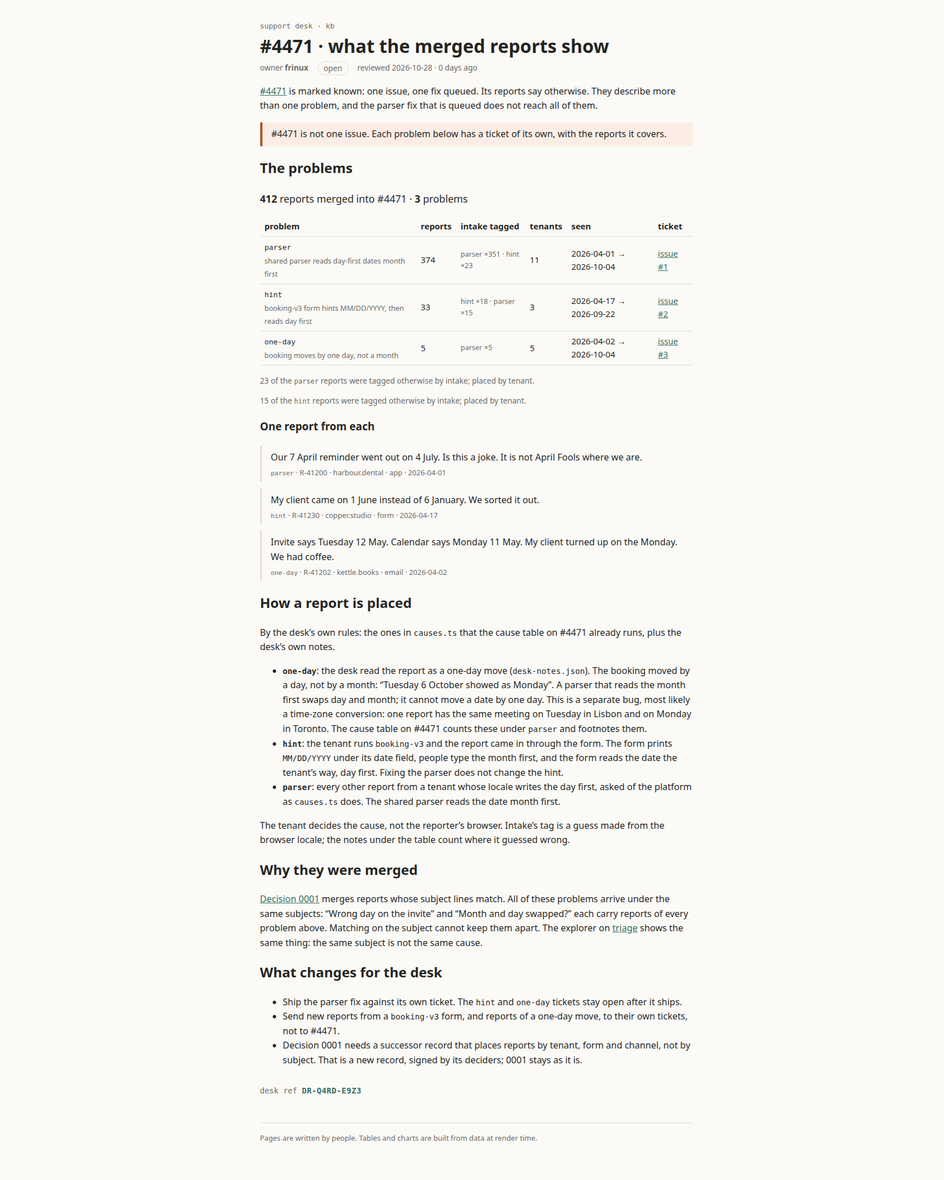
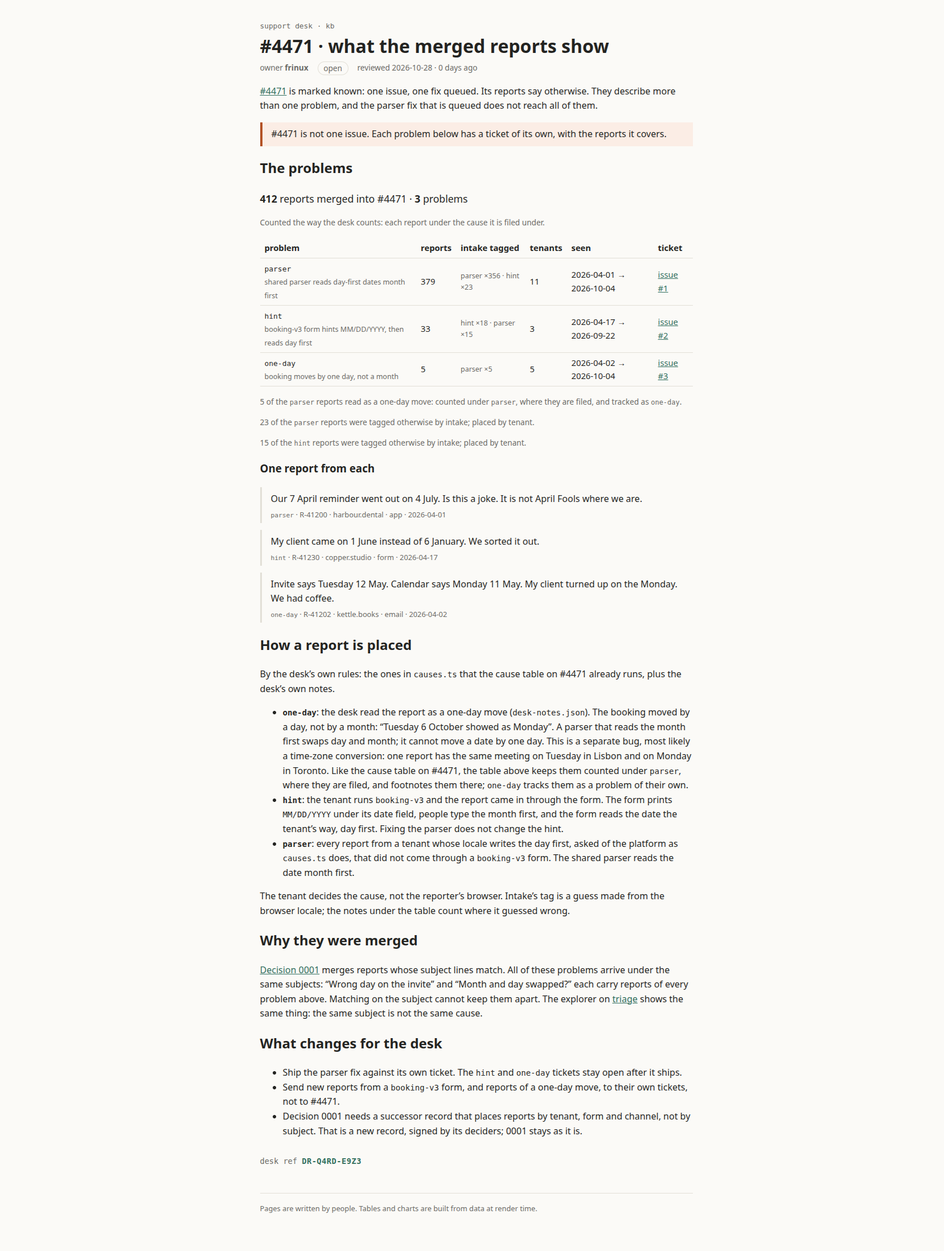
Count problems the way the desk counts: parser 379
The desk's cause table keeps reports read as a one-day move counted
under the cause they are filed under, with a footnote. The page now
counts with the desk's own groupByCause, so parser shows 379 with the
5 one-day moves footnoted, matching issue #1.

diff --git a/rendered/site/kb/incidents/4471/problems/index.html b/rendered/site/kb/incidents/4471/problems/index.html
@@ -9,11 +9,11 @@
 		<link href="../../../../_app/immutable/chunks/B2Ul7l_u.js" rel="modulepreload">
 		<link href="../../../../_app/immutable/chunks/BCPXOG7W.js" rel="modulepreload">
 		<link href="../../../../_app/immutable/chunks/Dh1V97Jm.js" rel="modulepreload">
-		<link href="../../../../_app/immutable/entry/app.BV1tQhXl.js" rel="modulepreload">
+		<link href="../../../../_app/immutable/entry/app.DoR5abNW.js" rel="modulepreload">
 		<link href="../../../../_app/immutable/nodes/0.BurGglGN.js" rel="modulepreload">
 		<link href="../../../../_app/immutable/chunks/DK3Fl9T5.js" rel="modulepreload">
-		<link href="../../../../_app/immutable/nodes/5.Ci9xwt0D.js" rel="modulepreload">
-		<link href="../../../../_app/immutable/chunks/DEWWjFDO.js" rel="modulepreload">
+		<link href="../../../../_app/immutable/nodes/5.U8cSWxVx.js" rel="modulepreload">
+		<link href="../../../../_app/immutable/chunks/Byargq5p.js" rel="modulepreload">
 		<link href="../../../../_app/immutable/chunks/BTPwLomz.js" rel="modulepreload">
 		<link href="../../../../_app/immutable/chunks/CVBzP17p.js" rel="modulepreload">
 		<link href="../../../../_app/immutable/chunks/BIy4WKJS.js" rel="modulepreload">
@@ -25,16 +25,18 @@
   <body data-sveltekit-preload-data="hover">
     <div style="display: contents"><!--[--><!--[--><!--[0--><!--[--><!--[--><!--[-1--><!--[--><div class="kb svelte-e2jw2j"><header><a class="crumb svelte-e2jw2j" href="/kb">support desk · kb</a> <h1 class="svelte-e2jw2j">#4471 · what the merged reports show</h1> <p class="meta svelte-e2jw2j"><span>owner <b>frinux</b></span> <span class="status open svelte-e2jw2j">open</span> <span class="svelte-e2jw2j">reviewed 2026-10-28 · 0 days ago</span></p></header> <!--[-1--><!--]--> <main><p><a href="/kb/incidents/4471">#4471</a> is marked known: one issue, one fix queued. Its reports say
 otherwise. They describe more than one problem, and the parser fix that is queued does not
-reach all of them.</p> <aside class="warn svelte-17bri61"><!---->#4471 is not one issue. Each problem below has a ticket of its own, with the reports it covers.<!----></aside><!----> <h2>The problems</h2> <p class="sum svelte-1op6c6"><strong>412</strong> reports merged into #4471 · <strong>3</strong> problems</p> <table><thead><tr><th>problem</th><th>reports</th><th>intake tagged</th><th>tenants</th><th>seen</th><th>ticket</th></tr></thead><tbody><!--[--><tr class="svelte-1op6c6"><td class="svelte-1op6c6"><code>parser</code><br/><span class="label svelte-1op6c6">shared parser reads day-first dates month first</span></td><td class="svelte-1op6c6">374</td><td class="tags svelte-1op6c6">parser ×351 · hint ×23</td><td class="svelte-1op6c6">11</td><td class="svelte-1op6c6">2026-04-01 → 2026-10-04</td><td class="svelte-1op6c6"><!--[0--><a href="https://github.com/frinux/mega-s01e03-support-kb/issues/1">issue #1</a><!--]--></td></tr><tr class="svelte-1op6c6"><td class="svelte-1op6c6"><code>hint</code><br/><span class="label svelte-1op6c6">booking-v3 form hints MM/DD/YYYY, then reads day first</span></td><td class="svelte-1op6c6">33</td><td class="tags svelte-1op6c6">hint ×18 · parser ×15</td><td class="svelte-1op6c6">3</td><td class="svelte-1op6c6">2026-04-17 → 2026-09-22</td><td class="svelte-1op6c6"><!--[0--><a href="https://github.com/frinux/mega-s01e03-support-kb/issues/2">issue #2</a><!--]--></td></tr><tr class="svelte-1op6c6"><td class="svelte-1op6c6"><code>one-day</code><br/><span class="label svelte-1op6c6">booking moves by one day, not a month</span></td><td class="svelte-1op6c6">5</td><td class="tags svelte-1op6c6">parser ×5</td><td class="svelte-1op6c6">5</td><td class="svelte-1op6c6">2026-04-02 → 2026-10-04</td><td class="svelte-1op6c6"><!--[0--><a href="https://github.com/frinux/mega-s01e03-support-kb/issues/3">issue #3</a><!--]--></td></tr><!--]--></tbody></table> <!--[--><!--[0--><p class="note svelte-1op6c6">23 of the <code>parser</code> reports were tagged otherwise by intake; placed by tenant.</p><!--]--><!--[0--><p class="note svelte-1op6c6">15 of the <code>hint</code> reports were tagged otherwise by intake; placed by tenant.</p><!--]--><!--[-1--><!--]--><!--]--> <h3>One report from each</h3> <!--[--><blockquote class="svelte-1op6c6"><p class="svelte-1op6c6">Our 7 April reminder went out on 4 July. Is this a joke. It is not April Fools where we are.</p> <footer class="svelte-1op6c6"><code>parser</code> · R-41200 · harbour.dental · app · 2026-04-01</footer></blockquote><blockquote class="svelte-1op6c6"><p class="svelte-1op6c6">My client came on 1 June instead of 6 January. We sorted it out.</p> <footer class="svelte-1op6c6"><code>hint</code> · R-41230 · copper.studio · form · 2026-04-17</footer></blockquote><blockquote class="svelte-1op6c6"><p class="svelte-1op6c6">Invite says Tuesday 12 May. Calendar says Monday 11 May. My client turned up on the Monday. We had coffee.</p> <footer class="svelte-1op6c6"><code>one-day</code> · R-41202 · kettle.books · email · 2026-04-02</footer></blockquote><!--]--><!----> <h2>How a report is placed</h2> <p>By the desk’s own rules: the ones in <code>causes.ts</code> that the cause table on #4471 already runs,
+reach all of them.</p> <aside class="warn svelte-17bri61"><!---->#4471 is not one issue. Each problem below has a ticket of its own, with the reports it covers.<!----></aside><!----> <h2>The problems</h2> <p class="sum svelte-1op6c6"><strong>412</strong> reports merged into #4471 · <strong>3</strong> problems</p> <p class="note svelte-1op6c6">Counted the way the desk counts: each report under the cause it is filed under.</p> <table><thead><tr><th>problem</th><th>reports</th><th>intake tagged</th><th>tenants</th><th>seen</th><th>ticket</th></tr></thead><tbody><!--[--><tr class="svelte-1op6c6"><td class="svelte-1op6c6"><code>parser</code><br/><span class="label svelte-1op6c6">shared parser reads day-first dates month first</span></td><td class="svelte-1op6c6">379</td><td class="tags svelte-1op6c6">parser ×356 · hint ×23</td><td class="svelte-1op6c6">11</td><td class="svelte-1op6c6">2026-04-01 → 2026-10-04</td><td class="svelte-1op6c6"><!--[0--><a href="https://github.com/frinux/mega-s01e03-support-kb/issues/1">issue #1</a><!--]--></td></tr><tr class="svelte-1op6c6"><td class="svelte-1op6c6"><code>hint</code><br/><span class="label svelte-1op6c6">booking-v3 form hints MM/DD/YYYY, then reads day first</span></td><td class="svelte-1op6c6">33</td><td class="tags svelte-1op6c6">hint ×18 · parser ×15</td><td class="svelte-1op6c6">3</td><td class="svelte-1op6c6">2026-04-17 → 2026-09-22</td><td class="svelte-1op6c6"><!--[0--><a href="https://github.com/frinux/mega-s01e03-support-kb/issues/2">issue #2</a><!--]--></td></tr><tr class="svelte-1op6c6"><td class="svelte-1op6c6"><code>one-day</code><br/><span class="label svelte-1op6c6">booking moves by one day, not a month</span></td><td class="svelte-1op6c6">5</td><td class="tags svelte-1op6c6">parser ×5</td><td class="svelte-1op6c6">5</td><td class="svelte-1op6c6">2026-04-02 → 2026-10-04</td><td class="svelte-1op6c6"><!--[0--><a href="https://github.com/frinux/mega-s01e03-support-kb/issues/3">issue #3</a><!--]--></td></tr><!--]--></tbody></table> <!--[--><!--[0--><p class="note svelte-1op6c6">5 of the <code>parser</code> reports read as a one-day move: counted under <code>parser</code>, where they are filed, and tracked as <code>one-day</code>.</p><!--]--><!--[-1--><!--]--><!--]--> <!--[--><!--[0--><p class="note svelte-1op6c6">23 of the <code>parser</code> reports were tagged otherwise by intake; placed by tenant.</p><!--]--><!--[0--><p class="note svelte-1op6c6">15 of the <code>hint</code> reports were tagged otherwise by intake; placed by tenant.</p><!--]--><!--[-1--><!--]--><!--]--> <h3>One report from each</h3> <!--[--><blockquote class="svelte-1op6c6"><p class="svelte-1op6c6">Our 7 April reminder went out on 4 July. Is this a joke. It is not April Fools where we are.</p> <footer class="svelte-1op6c6"><code>parser</code> · R-41200 · harbour.dental · app · 2026-04-01</footer></blockquote><blockquote class="svelte-1op6c6"><p class="svelte-1op6c6">My client came on 1 June instead of 6 January. We sorted it out.</p> <footer class="svelte-1op6c6"><code>hint</code> · R-41230 · copper.studio · form · 2026-04-17</footer></blockquote><blockquote class="svelte-1op6c6"><p class="svelte-1op6c6">Invite says Tuesday 12 May. Calendar says Monday 11 May. My client turned up on the Monday. We had coffee.</p> <footer class="svelte-1op6c6"><code>one-day</code> · R-41202 · kettle.books · email · 2026-04-02</footer></blockquote><!--]--><!----> <h2>How a report is placed</h2> <p>By the desk’s own rules: the ones in <code>causes.ts</code> that the cause table on #4471 already runs,
 plus the desk’s own notes.</p> <ul><li><strong><code>one-day</code></strong>: the desk read the report as a one-day move (<code>desk-notes.json</code>). The booking
 moved by a day, not by a month: “Tuesday 6 October showed as Monday”. A parser that reads
 the month first swaps day and month; it cannot move a date by one day. This is a separate
 bug, most likely a time-zone conversion: one report has the same meeting on Tuesday in
-Lisbon and on Monday in Toronto. The cause table on #4471 counts these under <code>parser</code> and
-footnotes them.</li> <li><strong><code>hint</code></strong>: the tenant runs <code>booking-v3</code> and the report came in through the form. The form
+Lisbon and on Monday in Toronto. Like the cause table on #4471, the table above keeps them
+counted under <code>parser</code>, where they are filed, and footnotes them there; <code>one-day</code> tracks them
+as a problem of their own.</li> <li><strong><code>hint</code></strong>: the tenant runs <code>booking-v3</code> and the report came in through the form. The form
 prints <code>MM/DD/YYYY</code> under its date field, people type the month first, and the form reads
-the date the tenant’s way, day first. Fixing the parser does not change the hint.</li> <li><strong><code>parser</code></strong>: every other report from a tenant whose locale writes the day first, asked of
-the platform as <code>causes.ts</code> does. The shared parser reads the date month first.</li></ul> <p>The tenant decides the cause, not the reporter’s browser. Intake’s tag is a guess made from
+the date the tenant’s way, day first. Fixing the parser does not change the hint.</li> <li><strong><code>parser</code></strong>: every report from a tenant whose locale writes the day first, asked of the
+platform as <code>causes.ts</code> does, that did not come through a <code>booking-v3</code> form. The shared
+parser reads the date month first.</li></ul> <p>The tenant decides the cause, not the reporter’s browser. Intake’s tag is a guess made from
 the browser locale; the notes under the table count where it guessed wrong.</p> <h2>Why they were merged</h2> <p><a href="/kb/decisions/0001-dedupe-by-subject">Decision 0001</a> merges reports whose subject lines
 match. All of these problems arrive under the same subjects: “Wrong day on the invite” and
 “Month and day swapped?” each carry reports of every problem above. Matching on the subject
@@ -46,16 +48,16 @@ not by subject. That is a new record, signed by its deciders; 0001 stays as it i
 			
 			<script>
 				{
-					__sveltekit_7aoigv = {
+					__sveltekit_1ldgquo = {
 						base: new URL("../../../..", location).pathname.slice(0, -1),
-						version: "1793209342383"
+						version: "1793209496119"
 					};
 
 					const element = document.currentScript.parentElement;
 
 					import("../../../../_app/immutable/entry/start.CH5w6lId.js").then(async (kit) => {
-						kit.init(__sveltekit_7aoigv);
-						const app = await import("../../../../_app/immutable/entry/app.BV1tQhXl.js");
+						kit.init(__sveltekit_1ldgquo);
+						const app = await import("../../../../_app/immutable/entry/app.DoR5abNW.js");
 						kit.start(app, element, {
 							node_ids: [0, 5],
 							data: [null,null],

diff --git a/rendered/site/_app/immutable/chunks/Byargq5p.js b/rendered/site/_app/immutable/chunks/Byargq5p.js
@@ -1,0 +1,22 @@
+import{t as e}from"./DK3Fl9T5.js";import{E as t,F as n,H as r,I as i,K as a,L as o,N as s,O as c,R as l,S as u,T as d,U as f,W as p,_ as m,c as h,d as g,h as _,k as v,q as y,r as b,t as x,w as S}from"./BCPXOG7W.js";import{t as C}from"./BTPwLomz.js";import{n as w,t as T}from"./CVBzP17p.js";import{a as E,l as D,r as O,t as k}from"./BIy4WKJS.js";var A={parser:{label:`shared parser reads day-first dates month first`,issue:`https://github.com/frinux/mega-s01e03-support-kb/issues/1`},hint:{label:`booking-v3 form hints MM/DD/YYYY, then reads day first`,issue:`https://github.com/frinux/mega-s01e03-support-kb/issues/2`},"one-day":{label:`booking moves by one day, not a month`,issue:`https://github.com/frinux/mega-s01e03-support-kb/issues/3`}};function j(e,t){let n=t.map(e=>e.receivedAt.slice(0,10)).sort();return{problem:e,reports:t,tenants:new Set(t.map(e=>e.tenant)).size,firstSeen:n[0],lastSeen:n[n.length-1],taggedAs:t.reduce((e,t)=>({...e,[t.meta.intakeTag]:(e[t.meta.intakeTag]??0)+1}),{})}}function M(e,t,n){let r=E(e,t).map(e=>j(e.cause,e.reports)),i=e.filter(e=>n.includes(e.id));return i.length?[...r,j(`one-day`,i)]:r}function N(e){return e.problem===`parser`||e.problem===`hint`?e.reports.filter(t=>t.meta.intakeTag!==e.problem).length:0}var P=t(`<a> </a>`),F=t(`<tr><td class="svelte-1op6c6"><code> </code><br/><span class="label svelte-1op6c6"> </span></td><td class="svelte-1op6c6"> </td><td class="tags svelte-1op6c6"> </td><td class="svelte-1op6c6"> </td><td class="svelte-1op6c6"> </td><td class="svelte-1op6c6"><!></td></tr>`),I=t(`<p class="note svelte-1op6c6"> <code> </code> reports read as a one-day move: counted under <code> </code>, where they are filed, and tracked as <code>one-day</code>.</p>`),L=t(`<p class="note svelte-1op6c6"> <code> </code> reports were tagged otherwise by intake; placed by tenant.</p>`),R=t(`<blockquote class="svelte-1op6c6"><p class="svelte-1op6c6"> </p> <footer class="svelte-1op6c6"><code> </code> </footer></blockquote>`),z=t(`<p class="sum svelte-1op6c6"><strong> </strong> <strong> </strong> </p> <p class="note svelte-1op6c6">Counted the way the desk counts: each report under the cause it is filed under.</p> <table><thead><tr><th>problem</th><th>reports</th><th>intake tagged</th><th>tenants</th><th>seen</th><th>ticket</th></tr></thead><tbody></tbody></table> <!> <!> <h3>One report from each</h3> <!>`,1);function B(e,t){p(t,!0);let b=A,x=r(()=>D(w).filter(e=>e.mergedInto===t.ticket)),C=r(()=>M(v(x),O,T.oneDayMove)),E=r(()=>v(C).filter(e=>e.problem!==`one-day`)),k=e=>Object.entries(e.taggedAs).sort((e,t)=>t[1]-e[1]).map(([e,t])=>`${e} ×${t}`).join(` · `),j=e=>e.split(`/`).pop();var B=z(),V=i(B),H=n(V),U=o(H,!0),W=l(H),G=l(W),K=o(G,!0),q=l(G);y(V);var J=l(V,4),Y=l(n(J));_(Y,21,()=>v(C),e=>e.problem,(e,t)=>{var r=F();let i;var a=n(r),d=n(a),f=o(d,!0),p=l(d,2),_=o(p,!0);y(a);var x=l(a),C=o(x,!0),w=l(x),T=o(w,!0),E=l(w),D=o(E,!0),O=l(E),A=o(O),M=l(O),N=n(M),I=e=>{var n=P(),r=o(n);s(e=>{h(n,`href`,b[v(t).problem].issue),u(r,`issue #${e??``}`)},[()=>j(b[v(t).problem].issue)]),S(e,n)},L=e=>{var t=c(`not filed`);S(e,t)};m(N,e=>{b[v(t).problem]?.issue?e(I):e(L,-1)}),y(M),y(r),s(e=>{i=g(r,1,`svelte-1op6c6`,null,i,{open:!b[v(t).problem]?.issue}),u(f,v(t).problem),u(_,b[v(t).problem]?.label??`no tenant on file`),u(C,v(t).reports.length),u(T,e),u(D,v(t).tenants),u(A,`${v(t).firstSeen??``} → ${v(t).lastSeen??``}`)},[()=>k(v(t))]),S(e,r)}),y(Y),y(J);var X=l(J,2);_(X,17,()=>v(E),e=>e.problem,(e,t)=>{let c=r(()=>v(t).reports.filter(e=>T.oneDayMove.includes(e.id)).length);var f=d(),p=i(f),h=e=>{var r=I(),i=n(r),d=l(i),f=o(d,!0),p=l(d,2),m=o(p,!0);a(3),y(r),s(()=>{u(i,`${v(c)??``} of the `),u(f,v(t).problem),u(m,v(t).problem)}),S(e,r)};m(p,e=>{v(c)&&e(h)}),S(e,f)});var Z=l(X,2);_(Z,17,()=>v(C),e=>e.problem,(e,t)=>{let c=r(()=>N(v(t)));var f=d(),p=i(f),h=e=>{var r=L(),i=n(r),d=l(i),f=o(d,!0);a(),y(r),s(()=>{u(i,`${v(c)??``} of the `),u(f,v(t).problem)}),S(e,r)};m(p,e=>{v(c)&&e(h)}),S(e,f)});var Q=l(Z,4);_(Q,17,()=>v(C),e=>e.problem,(e,t)=>{let i=r(()=>v(t).reports[0]);var a=R(),c=n(a),d=o(c,!0),f=l(c,2),p=n(f),m=o(p,!0),h=l(p);y(f),y(a),s(e=>{u(d,v(i).body),u(m,v(t).problem),u(h,` · ${v(i).id??``} · ${v(i).tenant??``} · ${v(i).channel??``} · ${e??``}`)},[()=>v(i).receivedAt.slice(0,10)]),S(e,a)}),s(()=>{u(U,v(x).length),u(W,` reports merged into #${t.ticket??``} · `),u(K,v(C).length),u(q,` ${v(C).length===1?`problem`:`problems`}`)}),S(e,B),f()}var V=`0123456789ABCDEFGHJKMNPQRSTVWXYZ`;function H(e,t){let n=t>>>0;for(let t=0;t<e.length;t++)n^=e.charCodeAt(t),n=Math.imul(n,16777619)>>>0;return n}function U(e){let t=e.trim(),n=H(t,2166136261),r=H(t,2654435769),i=BigInt(n)<<8n|BigInt(r&255),a=``;for(let e=0;e<8;e++)a=V[Number(i&31n)]+a,i>>=5n;return`DR-${a.slice(0,4)}-${a.slice(4)}`}var W=t(`<p class="stamp svelte-1280m42">desk ref <b class="svelte-1280m42"> </b></p>`),G=t(`<p class="stamp missing svelte-1280m42">no desk ref: this page isn't signed (no <code>signature</code> in its frontmatter)</p>`);function K(e,t){p(t,!0);let a=r(()=>t.signature?U(t.signature):null);var c=d(),h=i(c),g=e=>{var t=W(),r=l(n(t)),i=o(r,!0);y(t),s(()=>u(i,v(a))),S(e,t)},_=e=>{var t=G();S(e,t)};m(h,e=>{v(a)?e(g):e(_,-1)}),S(e,c),f()}var q=e({default:()=>$,metadata:()=>J}),J={layout:`runbook`,title:`#4471 · what the merged reports show`,owner:`frinux`,status:`open`,reviewed:`2026-10-28T00:00:00.000Z`,signature:`frinux`},{layout:Y,title:X,owner:Z,status:Q,reviewed:ee,signature:te}=J,ne=t(`<p><a href="/kb/incidents/4471">#4471</a> is marked known: one issue, one fix queued. Its reports say
+otherwise. They describe more than one problem, and the parser fix that is queued does not
+reach all of them.</p> <!> <h2>The problems</h2> <!> <h2>How a report is placed</h2> <p>By the desk’s own rules: the ones in <code>causes.ts</code> that the cause table on #4471 already runs,
+plus the desk’s own notes.</p> <ul><li><strong><code>one-day</code></strong>: the desk read the report as a one-day move (<code>desk-notes.json</code>). The booking
+moved by a day, not by a month: “Tuesday 6 October showed as Monday”. A parser that reads
+the month first swaps day and month; it cannot move a date by one day. This is a separate
+bug, most likely a time-zone conversion: one report has the same meeting on Tuesday in
+Lisbon and on Monday in Toronto. Like the cause table on #4471, the table above keeps them
+counted under <code>parser</code>, where they are filed, and footnotes them there; <code>one-day</code> tracks them
+as a problem of their own.</li> <li><strong><code>hint</code></strong>: the tenant runs <code>booking-v3</code> and the report came in through the form. The form
+prints <code>MM/DD/YYYY</code> under its date field, people type the month first, and the form reads
+the date the tenant’s way, day first. Fixing the parser does not change the hint.</li> <li><strong><code>parser</code></strong>: every report from a tenant whose locale writes the day first, asked of the
+platform as <code>causes.ts</code> does, that did not come through a <code>booking-v3</code> form. The shared
+parser reads the date month first.</li></ul> <p>The tenant decides the cause, not the reporter’s browser. Intake’s tag is a guess made from
+the browser locale; the notes under the table count where it guessed wrong.</p> <h2>Why they were merged</h2> <p><a href="/kb/decisions/0001-dedupe-by-subject">Decision 0001</a> merges reports whose subject lines
+match. All of these problems arrive under the same subjects: “Wrong day on the invite” and
+“Month and day swapped?” each carry reports of every problem above. Matching on the subject
+cannot keep them apart. The explorer on <a href="/kb/triage/dedupe">triage</a> shows the same thing:
+the same subject is not the same cause.</p> <h2>What changes for the desk</h2> <ul><li>Ship the parser fix against its own ticket. The <code>hint</code> and <code>one-day</code> tickets stay open
+after it ships.</li> <li>Send new reports from a <code>booking-v3</code> form, and reports of a one-day move, to their own
+tickets, not to #4471.</li> <li>Decision 0001 needs a successor record that places reports by tenant, form and channel,
+not by subject. That is a new record, signed by its deciders; 0001 stays as it is.</li></ul> <!>`,1);function $(e,t){let n=x(t,[`children`,`$$slots`,`$$events`,`$$legacy`]);C(e,b(()=>n,()=>J,{children:(e,t)=>{var n=ne(),r=l(i(n),2);k(r,{kind:`warn`,children:(e,t)=>{a();var n=c(`#4471 is not one issue. Each problem below has a ticket of its own, with the reports it covers.`);S(e,n)},$$slots:{default:!0}});var o=l(r,4);B(o,{ticket:4471}),K(l(o,18),{get signature(){return te}}),S(e,n)},$$slots:{default:!0}}))}export{$ as n,q as t};

diff --git a/src/lib/kb/problems.ts b/src/lib/kb/problems.ts
@@ -1,17 +1,12 @@
-// Splits a merged ticket into the problems its reports describe. Builds on causes.ts.
+// The problems in a merged ticket, counted the way the desk counts them: by cause (causes.ts), each
+// report where it is filed. Reports the desk read as a one-day move (desk-notes.json) are a problem
+// of their own, but they stay counted under the cause they are filed under, as CauseTable does.
+import { groupByCause, type CauseGroup, type Report, type Tenant } from '#lib/kb/causes';
 
-// A cause from causes.ts, or `one-day`: the desk read the report as a one-day move
-// (desk-notes.json), not a month flip, so the tenant's cause does not apply to it.
-import { causeOf, type Cause, type Report, type Tenant } from '#lib/kb/causes';
-
-export type Problem = Cause | 'one-day';
-
-export function problemOf(r: Report, t: Tenant | undefined, oneDayMove: readonly string[]): Problem | null {
-  return oneDayMove.includes(r.id) ? 'one-day' : causeOf(r, t);
-}
+export type Problem = CauseGroup['cause'] | 'one-day';
 
 export type ProblemGroup = {
-  problem: Problem | 'unplaced';
+  problem: Problem;
   reports: Report[];
   tenants: number;
   firstSeen: string;
@@ -20,29 +15,26 @@ export type ProblemGroup = {
   taggedAs: Record<string, number>;
 };
 
-export function groupByProblem(
+function summarize(problem: Problem, rs: Report[]): ProblemGroup {
+  const days = rs.map((r) => r.receivedAt.slice(0, 10)).sort();
+  return {
+    problem,
+    reports: rs,
+    tenants: new Set(rs.map((r) => r.tenant)).size,
+    firstSeen: days[0],
+    lastSeen: days[days.length - 1],
+    taggedAs: rs.reduce<Record<string, number>>((n, r) => ({ ...n, [r.meta.intakeTag]: (n[r.meta.intakeTag] ?? 0) + 1 }), {}),
+  };
+}
+
+export function problemGroups(
   reports: Report[],
   tenantOf: (r: Report) => Tenant | undefined,
   oneDayMove: readonly string[],
 ): ProblemGroup[] {
-  const by = new Map<ProblemGroup['problem'], Report[]>();
-  for (const r of reports) {
-    const p = problemOf(r, tenantOf(r), oneDayMove) ?? 'unplaced';
-    by.set(p, [...(by.get(p) ?? []), r]);
-  }
-  return [...by.entries()]
-    .map(([problem, rs]) => {
-      const days = rs.map((r) => r.receivedAt.slice(0, 10)).sort();
-      return {
-        problem,
-        reports: rs,
-        tenants: new Set(rs.map((r) => r.tenant)).size,
-        firstSeen: days[0],
-        lastSeen: days[days.length - 1],
-        taggedAs: rs.reduce<Record<string, number>>((n, r) => ({ ...n, [r.meta.intakeTag]: (n[r.meta.intakeTag] ?? 0) + 1 }), {}),
-      };
-    })
-    .sort((a, b) => b.reports.length - a.reports.length);
+  const causes = groupByCause(reports, tenantOf).map((g) => summarize(g.cause, g.reports));
+  const moved = reports.filter((r) => oneDayMove.includes(r.id));
+  return moved.length ? [...causes, summarize('one-day', moved)] : causes;
 }
 
 // Reports whose intake tag names a different cause than their tenant does.

diff --git a/rendered/site/_app/immutable/nodes/2.BbxLKkRM.js b/rendered/site/_app/immutable/nodes/2.BbxLKkRM.js
@@ -1,0 +1,2 @@
+import{E as e,F as t,I as n,K as r,L as i,N as a,R as o,S as s,U as c,W as l,c as u,d,h as f,i as p,k as m,q as h,r as g,t as _,w as v}from"../chunks/BCPXOG7W.js";import{n as y,r as b,t as x}from"../chunks/BTPwLomz.js";import{t as S}from"../chunks/YX22L_Ud.js";import{t as C}from"../chunks/CgeRC4yK.js";import{t as w}from"../chunks/Byargq5p.js";import{t as T}from"../chunks/BGqJVSDw.js";var E=e(`<tr><td><a> </a></td><td> </td><td> </td><td> </td></tr>`),D=e(`<table><thead><tr><th>page</th><th>owner</th><th>status</th><th>reviewed</th></tr></thead><tbody></tbody></table>`);function O(e,n){l(n,!1);let r=Object.entries(Object.assign({"/src/routes/kb/decisions/0001-dedupe-by-subject/+page.svx":S,"/src/routes/kb/incidents/4471/+page.svx":C,"/src/routes/kb/incidents/4471/problems/+page.svx":w,"/src/routes/kb/triage/dedupe/+page.svx":T})).map(([e,t])=>({href:e.replace(`/src/routes`,``).replace(`/+page.svx`,``),...t.metadata})).sort((e,t)=>e.href.localeCompare(t.href));p();var g=D(),_=o(t(g));f(_,5,()=>r,e=>e.href,(e,n)=>{var r=E(),c=t(r),l=t(c),f=i(l,!0);h(c);var p=o(c),g=i(p,!0),_=o(p),x=i(_,!0),S=o(_);let C;var w=i(S,!0);h(r),a((e,t)=>{u(l,`href`,m(n).href),s(f,m(n).title),s(g,m(n).owner),s(x,m(n).status),C=d(S,1,`svelte-tbc1ha`,null,C,{stale:e}),s(w,t)},[()=>y(m(n).reviewed)>180,()=>b(m(n).reviewed)]),v(e,r)}),h(_),h(g),v(e,g),c()}var k={layout:`runbook`,title:`Support knowledge base`,owner:`support desk`,status:`living`,reviewed:`2026-09-28T00:00:00.000Z`},{layout:A,title:j,owner:M,status:N,reviewed:P}=k,F=e(`<p>What the support desk knows, kept next to the code that knows it. One desk, every product: <code>sched-prod</code> (calendar invites for about 300k people) and the rest. When something breaks, the reports land here first.</p> <p>Start with <a href="/kb/triage/dedupe">triage</a> if you are new on the desk.</p> <h2>Pages</h2> <!> <h2>Writing a page</h2> <p>Keep the words here and the logic in <code>src/lib</code>. A number that can be computed should be
+computed by a component, not typed into a paragraph.</p>`,1);function I(e,t){let i=_(t,[`children`,`$$slots`,`$$events`,`$$legacy`]);x(e,g(()=>i,()=>k,{children:(e,t)=>{var i=F();O(o(n(i),6),{}),r(4),v(e,i)},$$slots:{default:!0}}))}export{I as component};

diff --git a/rendered/site/kb/index.html b/rendered/site/kb/index.html
@@ -9,16 +9,16 @@
 		<link href="../_app/immutable/chunks/B2Ul7l_u.js" rel="modulepreload">
 		<link href="../_app/immutable/chunks/BCPXOG7W.js" rel="modulepreload">
 		<link href="../_app/immutable/chunks/Dh1V97Jm.js" rel="modulepreload">
-		<link href="../_app/immutable/entry/app.BV1tQhXl.js" rel="modulepreload">
+		<link href="../_app/immutable/entry/app.DoR5abNW.js" rel="modulepreload">
 		<link href="../_app/immutable/nodes/0.BurGglGN.js" rel="modulepreload">
 		<link href="../_app/immutable/chunks/DK3Fl9T5.js" rel="modulepreload">
-		<link href="../_app/immutable/nodes/2.CPngSe-w.js" rel="modulepreload">
+		<link href="../_app/immutable/nodes/2.BbxLKkRM.js" rel="modulepreload">
 		<link href="../_app/immutable/chunks/BTPwLomz.js" rel="modulepreload">
 		<link href="../_app/immutable/chunks/YX22L_Ud.js" rel="modulepreload">
 		<link href="../_app/immutable/chunks/CgeRC4yK.js" rel="modulepreload">
 		<link href="../_app/immutable/chunks/CVBzP17p.js" rel="modulepreload">
 		<link href="../_app/immutable/chunks/BIy4WKJS.js" rel="modulepreload">
-		<link href="../_app/immutable/chunks/DEWWjFDO.js" rel="modulepreload">
+		<link href="../_app/immutable/chunks/Byargq5p.js" rel="modulepreload">
 		<link href="../_app/immutable/chunks/BGqJVSDw.js" rel="modulepreload">
 		<!--e2jw2j--><!----><title>Support knowledge base · support kb</title>
 		<link href="../_app/immutable/assets/runbook.COyw0cbZ.css" rel="stylesheet">
@@ -34,16 +34,16 @@ computed by a component, not typed into a paragraph.</p><!----></main> <footer c
 			
 			<script>
 				{
-					__sveltekit_7aoigv = {
+					__sveltekit_1ldgquo = {
 						base: new URL("..", location).pathname.slice(0, -1),
-						version: "1793209342383"
+						version: "1793209496119"
 					};
 
 					const element = document.currentScript.parentElement;
 
 					import("../_app/immutable/entry/start.CH5w6lId.js").then(async (kit) => {
-						kit.init(__sveltekit_7aoigv);
-						const app = await import("../_app/immutable/entry/app.BV1tQhXl.js");
+						kit.init(__sveltekit_1ldgquo);
+						const app = await import("../_app/immutable/entry/app.DoR5abNW.js");
 						kit.start(app, element, {
 							node_ids: [0, 2],
 							data: [null,null],

diff --git a/rendered/site/_app/immutable/entry/app.DoR5abNW.js b/rendered/site/_app/immutable/entry/app.DoR5abNW.js
@@ -1,0 +1,2 @@
+const __vite__mapDeps=(i,m=__vite__mapDeps,d=(m.f||(m.f=["../nodes/0.BurGglGN.js","../chunks/DK3Fl9T5.js","../chunks/BCPXOG7W.js","../nodes/1.mOwa9YdW.js","../chunks/Dh1V97Jm.js","./payload.DSmR2FwN.js","../nodes/2.BbxLKkRM.js","../chunks/BTPwLomz.js","../assets/runbook.COyw0cbZ.css","../chunks/YX22L_Ud.js","../chunks/CgeRC4yK.js","../chunks/CVBzP17p.js","../chunks/BIy4WKJS.js","../assets/Callout.AbLv9dM_.css","../assets/_page.D56XP2ro.css","../chunks/Byargq5p.js","../assets/_page.j3OqeCKy.css","../chunks/BGqJVSDw.js","../assets/_page.DO6Yid7X.css","../assets/2.Bt0MwIZg.css","../nodes/3.DRxPfvn3.js","../nodes/4.rt2PfD_4.js","../nodes/5.U8cSWxVx.js","../nodes/6.sFtxrtyV.js"])))=>i.map(i=>d[i]);
+import{t as e}from"../chunks/CRzLMJPS.js";var t={},n=[()=>e(()=>import(`../nodes/0.BurGglGN.js`),__vite__mapDeps([0,1,2]),import.meta.url),()=>e(()=>import(`../nodes/1.mOwa9YdW.js`),__vite__mapDeps([3,2,4,5]),import.meta.url),()=>e(()=>import(`../nodes/2.BbxLKkRM.js`),__vite__mapDeps([6,2,7,8,9,1,10,11,12,13,14,15,16,17,18,19]),import.meta.url),()=>e(()=>import(`../nodes/3.DRxPfvn3.js`),__vite__mapDeps([20,9,1,2,7,8]),import.meta.url),()=>e(()=>import(`../nodes/4.rt2PfD_4.js`),__vite__mapDeps([21,10,1,2,7,8,11,12,13,14]),import.meta.url),()=>e(()=>import(`../nodes/5.U8cSWxVx.js`),__vite__mapDeps([22,15,1,2,7,8,11,12,13,16]),import.meta.url),()=>e(()=>import(`../nodes/6.sFtxrtyV.js`),__vite__mapDeps([23,17,1,2,7,8,12,13,18]),import.meta.url)],r=[],i={"/kb":[2],"/kb/decisions/0001-dedupe-by-subject":[3],"/kb/incidents/4471":[4],"/kb/incidents/4471/problems":[5],"/kb/triage/dedupe":[6]},a={handleError:(({kind:e,error:t})=>{e===`unknown`&&console.error(t)}),reroute:(()=>{}),transport:{}},o=Object.fromEntries(Object.entries(a.transport).map(([e,t])=>[e,t.decode])),s=Object.fromEntries(Object.entries(a.transport).map(([e,t])=>[e,t.encode])),c=!1,l=(e,t)=>o[e](t),u=()=>e(()=>import(`../chunks/Bjy-W4x2.js`).then(e=>e.default),[],import.meta.url);export{l as decode,o as decoders,i as dictionary,s as encoders,u as get_error_template,c as hash,a as hooks,t as matchers,n as nodes,r as server_loads};

diff --git a/src/lib/kb/ProblemTable.svelte b/src/lib/kb/ProblemTable.svelte
@@ -3,7 +3,7 @@
   import notes from '#lib/data/desk-notes.json';
   import tickets from '#lib/data/tickets-4471.json';
   import { uniqueById, type Report } from '#lib/kb/causes';
-  import { groupByProblem, mistagged } from '#lib/kb/problems';
+  import { mistagged, problemGroups } from '#lib/kb/problems';
   import { tenantOf } from '#lib/kb/locales';
 
   let { ticket }: { ticket: number } = $props();
@@ -12,7 +12,8 @@
   const filed = tickets as Record<string, Filed>;
 
   const merged = $derived(uniqueById(reports as Report[]).filter((r) => r.mergedInto === ticket));
-  const groups = $derived(groupByProblem(merged, tenantOf, notes.oneDayMove));
+  const groups = $derived(problemGroups(merged, tenantOf, notes.oneDayMove));
+  const causes = $derived(groups.filter((g) => g.problem !== 'one-day'));
   const tags = (g: { taggedAs: Record<string, number> }) =>
     Object.entries(g.taggedAs)
       .sort((a, b) => b[1] - a[1])
@@ -26,6 +27,7 @@
   <strong>{groups.length}</strong>
   {groups.length === 1 ? 'problem' : 'problems'}
 </p>
+<p class="note">Counted the way the desk counts: each report under the cause it is filed under.</p>
 
 <table>
   <thead>
@@ -51,6 +53,12 @@
   </tbody>
 </table>
 
+{#each causes as g (g.problem)}
+  {@const moved = g.reports.filter((r) => notes.oneDayMove.includes(r.id)).length}
+  {#if moved}
+    <p class="note">{moved} of the <code>{g.problem}</code> reports read as a one-day move: counted under <code>{g.problem}</code>, where they are filed, and tracked as <code>one-day</code>.</p>
+  {/if}
+{/each}
 {#each groups as g (g.problem)}
   {@const off = mistagged(g)}
   {#if off}

diff --git a/rendered/site/kb/decisions/0001-dedupe-by-subject/index.html b/rendered/site/kb/decisions/0001-dedupe-by-subject/index.html
@@ -9,7 +9,7 @@
 		<link href="../../../_app/immutable/chunks/B2Ul7l_u.js" rel="modulepreload">
 		<link href="../../../_app/immutable/chunks/BCPXOG7W.js" rel="modulepreload">
 		<link href="../../../_app/immutable/chunks/Dh1V97Jm.js" rel="modulepreload">
-		<link href="../../../_app/immutable/entry/app.BV1tQhXl.js" rel="modulepreload">
+		<link href="../../../_app/immutable/entry/app.DoR5abNW.js" rel="modulepreload">
 		<link href="../../../_app/immutable/nodes/0.BurGglGN.js" rel="modulepreload">
 		<link href="../../../_app/immutable/chunks/DK3Fl9T5.js" rel="modulepreload">
 		<link href="../../../_app/immutable/nodes/3.DRxPfvn3.js" rel="modulepreload">
@@ -26,16 +26,16 @@ engineering merges them later.</li></ul><!----></main> <footer class="svelte-e2j
 			
 			<script>
 				{
-					__sveltekit_7aoigv = {
+					__sveltekit_1ldgquo = {
 						base: new URL("../../..", location).pathname.slice(0, -1),
-						version: "1793209342383"
+						version: "1793209496119"
 					};
 
 					const element = document.currentScript.parentElement;
 
 					import("../../../_app/immutable/entry/start.CH5w6lId.js").then(async (kit) => {
-						kit.init(__sveltekit_7aoigv);
-						const app = await import("../../../_app/immutable/entry/app.BV1tQhXl.js");
+						kit.init(__sveltekit_1ldgquo);
+						const app = await import("../../../_app/immutable/entry/app.DoR5abNW.js");
 						kit.start(app, element, {
 							node_ids: [0, 3],
 							data: [null,null],

diff --git a/rendered/site/kb/incidents/4471/index.html b/rendered/site/kb/incidents/4471/index.html
@@ -9,7 +9,7 @@
 		<link href="../../../_app/immutable/chunks/B2Ul7l_u.js" rel="modulepreload">
 		<link href="../../../_app/immutable/chunks/BCPXOG7W.js" rel="modulepreload">
 		<link href="../../../_app/immutable/chunks/Dh1V97Jm.js" rel="modulepreload">
-		<link href="../../../_app/immutable/entry/app.BV1tQhXl.js" rel="modulepreload">
+		<link href="../../../_app/immutable/entry/app.DoR5abNW.js" rel="modulepreload">
 		<link href="../../../_app/immutable/nodes/0.BurGglGN.js" rel="modulepreload">
 		<link href="../../../_app/immutable/chunks/DK3Fl9T5.js" rel="modulepreload">
 		<link href="../../../_app/immutable/nodes/4.rt2PfD_4.js" rel="modulepreload">
@@ -29,16 +29,16 @@ first. The fix is queued.</p> <aside class="note svelte-17bri61"><!---->Known. O
 			
 			<script>
 				{
-					__sveltekit_7aoigv = {
+					__sveltekit_1ldgquo = {
 						base: new URL("../../..", location).pathname.slice(0, -1),
-						version: "1793209342383"
+						version: "1793209496119"
 					};
 
 					const element = document.currentScript.parentElement;
 
 					import("../../../_app/immutable/entry/start.CH5w6lId.js").then(async (kit) => {
-						kit.init(__sveltekit_7aoigv);
-						const app = await import("../../../_app/immutable/entry/app.BV1tQhXl.js");
+						kit.init(__sveltekit_1ldgquo);
+						const app = await import("../../../_app/immutable/entry/app.DoR5abNW.js");
 						kit.start(app, element, {
 							node_ids: [0, 4],
 							data: [null,null],

diff --git a/rendered/site/kb/triage/dedupe/index.html b/rendered/site/kb/triage/dedupe/index.html
@@ -9,7 +9,7 @@
 		<link href="../../../_app/immutable/chunks/B2Ul7l_u.js" rel="modulepreload">
 		<link href="../../../_app/immutable/chunks/BCPXOG7W.js" rel="modulepreload">
 		<link href="../../../_app/immutable/chunks/Dh1V97Jm.js" rel="modulepreload">
-		<link href="../../../_app/immutable/entry/app.BV1tQhXl.js" rel="modulepreload">
+		<link href="../../../_app/immutable/entry/app.DoR5abNW.js" rel="modulepreload">
 		<link href="../../../_app/immutable/nodes/0.BurGglGN.js" rel="modulepreload">
 		<link href="../../../_app/immutable/chunks/DK3Fl9T5.js" rel="modulepreload">
 		<link href="../../../_app/immutable/nodes/6.sFtxrtyV.js" rel="modulepreload">
@@ -29,16 +29,16 @@ anything else.<!----></aside><!----> <h2>Try it</h2> <div class="try svelte-gq0h
 			
 			<script>
 				{
-					__sveltekit_7aoigv = {
+					__sveltekit_1ldgquo = {
 						base: new URL("../../..", location).pathname.slice(0, -1),
-						version: "1793209342383"
+						version: "1793209496119"
 					};
 
 					const element = document.currentScript.parentElement;
 
 					import("../../../_app/immutable/entry/start.CH5w6lId.js").then(async (kit) => {
-						kit.init(__sveltekit_7aoigv);
-						const app = await import("../../../_app/immutable/entry/app.BV1tQhXl.js");
+						kit.init(__sveltekit_1ldgquo);
+						const app = await import("../../../_app/immutable/entry/app.DoR5abNW.js");
 						kit.start(app, element, {
 							node_ids: [0, 6],
 							data: [null,null],

diff --git a/rendered/site/_app/immutable/nodes/5.U8cSWxVx.js b/rendered/site/_app/immutable/nodes/5.U8cSWxVx.js
@@ -1,0 +1,1 @@
+export{n as component}from"../chunks/Byargq5p.js";
